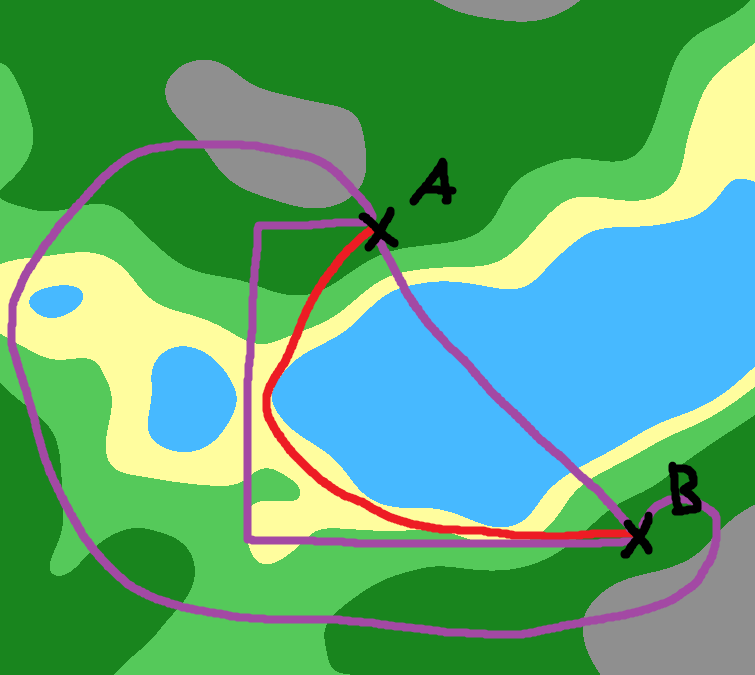
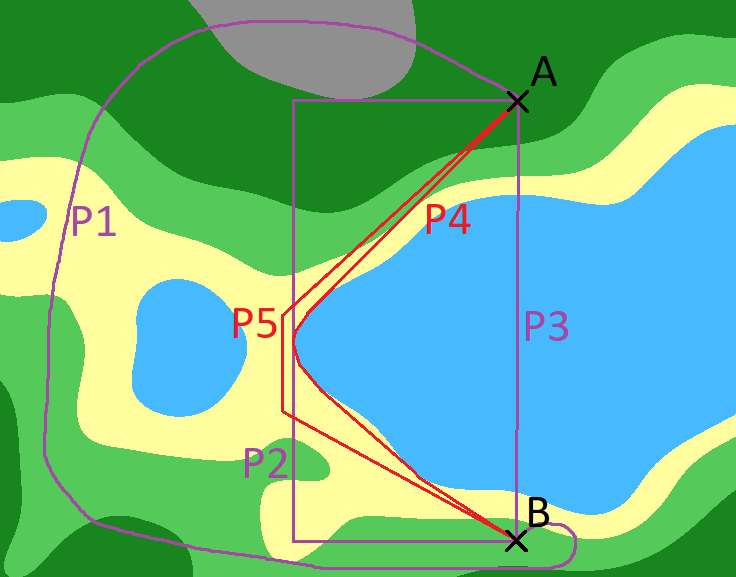
feat(implementation analysis): completed the path-finding section

diff --git a/3_implementation_analysis.tex b/3_implementation_analysis.tex
@@ -205,7 +205,7 @@ Zmíněná nevýhoda by nám způsobila potíže například pokud bychom chtěl
 
 Ovšem poté co se vesničan nají, je nutné se vrátit zpět do stavu, který vesničan vykonával předtím než se šel najíst. Jením z řešení by bylo pořídit si výše zmíněnou dvojici stavů pro každý stav z původního automatu a provést přechod do této dvojice pokud hlad vesničana klesl pod určitou hodnotu. Poté co by se vykonal \texttt{EatFromStockpileState} nastal by přechod zpět do původního stavu. Situaci je možné vidět na obrázku~\ref{fig:transition}.
 
-\begin{figure}
+\begin{figure}[!htb]
     \centering
     \includegraphics[width=0.66\linewidth]{img/transition.pdf}
     \caption{Řešení mechaniky hladu pro jeden vrchol z původního stavového automatu.}
@@ -275,7 +275,7 @@ Nyní zbývá pomocí výškové mapy vygenerovat daný terén. Již víme, že 
 
 Příklad výsledného terénu je možné vidět na obrázku~\ref{fig:terrain}.
 
-\begin{figure}
+\begin{figure}[!htb]
     \centering
     \includegraphics[width=0.66\linewidth]{img/terrain.png}
     \caption{Příklad jak může vypadat námi vygenerovaný terén.}
@@ -306,21 +306,25 @@ Díky vysoké paralelizaci GPU můžeme vždy zvolit nejmenší velikost atomick
 
 \subsection{Navigace ve vygenerovaném terénu}
 % uvod do kontextu
-Generováním terénu na GPU se tedy zdá být jako ideální kandidát ovšem tím, že terén budeme generovat na GPU nám vzniká problém jak ve vygenerovaném terénu budeme vlastně provádět navigaci. V této sekce tento problém vyřešíme.
+Generování terénu na GPU se tedy zdá být ideálním kandidátem, ovšem tím, že terén budeme generovat na GPU, nám vzniká problém, jak ve vygenerovaném terénu budeme vlastně provádět navigaci. V této sekce tento problém vyřešíme.
 
 % co si predstavujeme pod navigaci
 % co pozadujeme of navigace
 %   - rychlost
 %   - nejkratsi cesty
 %   - prirozene vypadajici cesty
-Vesničané v naší hře budou často potřebovat nalézt cestu v námi vygenerovaném terénu k nějaké entitě. Budou například chtít dojít ke skladišti nebo ke svému pracovnímu místu. Jelikož k hledaní cesty bude docházet poměrně často budeme chtít aby bylo dostatečně rychlé. Dále budeme chtít aby cesty působili přirozeně. Příklad nepřirozené cesty je ceste ve které vesničan dělá zbytečně velkou zacházku nebo cesta ve které vesničan nejde přímo ke svému cíli i přesto, že mezi ním a cílem není žádná překážka. Příklady vhodné cesty a několika nevhodných cest je možné vidět na obrázku~\ref{fig:path}.
+Vesničané v naší hře budou často potřebovat nalézt cestu v námi vygenerovaném terénu k nějaké entitě. Budou například chtít dojít ke skladišti nebo ke svému pracovnímu místu. Jelikož k hledaní cesty bude docházet poměrně často budeme chtít aby bylo dostatečně rychlé. Dále budeme chtít, aby cesty působily přirozeně. Příklady vhodných (přirozených) a nevhodných (nepřirozených) cest je možné vidět na obrázku~\ref{fig:path}.
 
-\begin{figure}
+\begin{figure}[!htb]
     \centering
     \includegraphics[width=0.66\linewidth]{img/path.png}
-    \caption{Příklad cest z bodu A do bodu B. Fialové cesty jsou nežádané nepřirozeně vypadající cesty. Červená cesta je žádaná přirozeně vypadající cesta.}
+    \caption{Příklad cest z bodu A do bodu B. Fialové cesty jsou nevhodné. Červené cesty jsou vhodné.}
     \label{fig:path}
 \end{figure}
+
+Fialové cesty jsou nevhodné. Konkrétně cesta $P1$ je nevhodná, jelikož vede zbytečnou velkou oklikou. Cesta $P2$ je nevhodná, protože vede pouze podel os. Cesta $P3$ je nevhodná, jelikož vede přes vodu.
+
+Červené cesty jsou vhodné. Cesta $P4$ je nejkratší cestou z bodu $A$ do bodu $B$. Cesta $P5$ sice není nejkratší cesta ale je pro nás dostatečně dobrou aproximací a je pro nás dostačující.
 
 % jak ji budeme provadet
 %   - A* (protoze se bezne pouziva, produkuje nejkratsi cesty a je rychli)
@@ -329,9 +333,33 @@ Vesničané v naší hře budou často potřebovat nalézt cestu v námi vygener
 % jak ziskame mrizku
 Náš terén je dvourozměrný prostor, konkrétně si jej budeme reprezentovat jako mřížku. Tuto mřížku si budeme reprezentovat jako pole, kde každý prvek tohoto pole ponese informaci o tom v jakém biomu se nachází. Pro výpočet vzdálenosti mezi dvěma body v naší mřížce zvolíme Manhattanskou metriku. Pro hledání nejkratších cest použijeme algoritmus A*, jelikož se jedná o známý a rychlí algoritmus pro hledání nejkratších cest. 
 
-Náš terén je spojitý, ovšem prostor používaný pro navigace v něm máme reprezentovaný pouze jako mřížku. Výsledné cesty vyprodukované A* algoritmem by tedy v původním terénu nevypadali přirozeně, proto po skončení A* algoritmu provádíme ještě jeden krok, při kterém tyto cesty zjednodušujeme.
+Náš terén je spojitý, ovšem prostor používaný pro navigace v něm máme reprezentovaný pouze jako mřížku. Cesty vyprodukované v této mřížce za pomoci A* algoritmu jsou pro nás nevhodné. Příklad toho jak by taková cesta mohla vypadat je možné vidět na obrazku~\ref{fig:path_grid}. Je lehké nahlédnout, že se podobá cestě $P2$ z obrázku~\ref{fig:path}, která je pro nás nevhodná.
 
-\xxx{TODO}
+\begin{figure}[!htb]
+    \centering
+    \includegraphics[width=0.66\linewidth]{img/path_grid.png}
+    \caption{Příklad cesty z bodu A do bodu B nalezené A* algoritmem v naší mřížce.}
+    \label{fig:path_grid}
+\end{figure}
+
+Pro získání vhodných cest je nutné tyto cesty upravit. Úpravu provedeme tak, že začneme v prvním bodu cesty a provedeme ray cast do druhého bodu. Pokud jsme nenarazili na vodu pokusime se provést ray cast ke třetímu bodu. To budeme opakovat dokud náš ray cast nenarazil na vodu. V takovém případě můžeme cestu zjednodušit a odstranit z ní všechny body mezi prvním a posledním úspěšným. Poté ce přesuneme ke druhému bodu a postup opakujeme. Celí tento proces provádíme dokud nedojdeme do posledního bodu naší cesty. Zjednodušení fialové cesty je možné vidět na obrázku~\ref{fig:path_simplified}, kde fialová cesta představuje původní cestu a červená cesta její zjednodušení.
+
+\begin{figure}[!htb]
+    \centering
+    \includegraphics[width=0.66\linewidth]{img/path_simplified.png}
+    \caption{Příklad cesty z bodu A do bodu B nalezené A* algoritmem v naší mřížce, která byla následně zjednodušena. Fialová cesta je originální nevhodná cesta. Červená cesta je zjednodušená, již vhodná, cesta.}
+    \label{fig:path_simplified}
+\end{figure}
+
+Ovšem problém spočívá v tom, že k dispozici máme pouze mřížku, která obsahuje data o našem terénu, tím pádem nemůžeme provést klasický ray cast. Proto provedeme pouze jeho aproximaci. Začneme v bodu $N$ a chceme provést aproximaci ray castu do bodu $M$. Spočítáme si směr z bodu $N$ do bodu $M$ a tímto směrem se budeme posouvat vždy o nějakou malou vzdálenost $\Delta$. Pokaždé když se posuneme tak si spočítáme nejbližší bod z naší mřížky. Pokud se jedná o bod s biomem vody, tak ray cast selhal. V případě, že jsme takto došli až do bodu $M$ a nenarazili jsme na bod vody, ray cast byl úspěšný.
+
+Mohlo by se zdát, že použití této aproximace by vedlo v příliš nevhodné cesty, ovšem za předpokladu, že se body v naší mřížce budou nacházet dostatečně blízko sebe, tak bude výsledná cesta dostatečně dobrou aproximací červené cesty z obrázku~\ref{fig:path_simplified}.
+
+Další problém, který je nutné vyřešit, je, že vesničané a entity, ke kterým se vesničané navigují, nejsou umístěni v naší mřížce. Problém vyřešíme tak, že před spuštěním A* algoritmu si k vesničanovi a dané entitě nalezneme nejbližší body v naší mřížce a nalezneme nejkratší cestu mezi těmito body. Poté, předtím než provedeme zjednodušení cesty, přidáme pozici vesničana jako první bod naší cesty a pozici entity, ke které se vesničan naviguje, jako poslední bod naší cesty. Přidáním těchto bodů by nám mohli vzniknout nepřirozené artefakty, ovšem ty budou spraveny během zjednodušování cesty.
+
+Zbývá nám vyřešit jak získáme již zmiňovanou mřížku. Abychom ji získali z našeho terénu bude potřeba jej navzorkovat. Podobně jako při jeho generování si terén rozdělíme na atomické části a střed každé takové atomické části bude bodem v naší mřížce. Protože celý náš terén generujeme na GPU, bude nutné toto navzorkování také provádět na GPU. Pořídíme si proto compute shader pomocí kterého terén navzorkujeme na GPU a tím vytvoříme mřížku, kterou poté přesuneme na CPU.
+
+Ovšem problém nastává v tom, že MonoGame framework, který pro tvorbu naší hry používáme nemá podporu pro compute shadery. Z toho důvodu namísto nativního MonoGame zvolíme jeho fork~\cite{MonoGameCptMax} od Markuse Hötzingera, který tuto podporu přináší.
 
 
 
@@ -348,6 +376,9 @@ Náš terén je spojitý, ovšem prostor používaný pro navigace v něm máme 
 % Abychom získali z našeho terénu mřížku bude třeba jej navzorkovat. Podobně jako při jeho generování si terén rozdělíme na atomické části a střed každé takové atomické části bude bodem v naší mřížce. Ovšem celý náš terén generujeme na GPU, proto toto navzorkování bude nutné také provést na GPU. Pořídíme si proto compute shader pomocí kterého terén navzorkujeme na GPUa tím vytvoříme mřížku, kterou poté stáhneme do CPU.
 
 % Ovšem problém nastává v tom, že MonoGame framework, který pro tvorbu naší hry používáme nemá podporu pro compute shadery. Z toho důvodu namísto nativního MonoGame zvolíme jeho fork~\cite{MonoGameCptMax} od Markuse Hötzingera, který tuto podporu přináší.
+
+
+
 
 % \xxx{TODO: path-finding}
 
